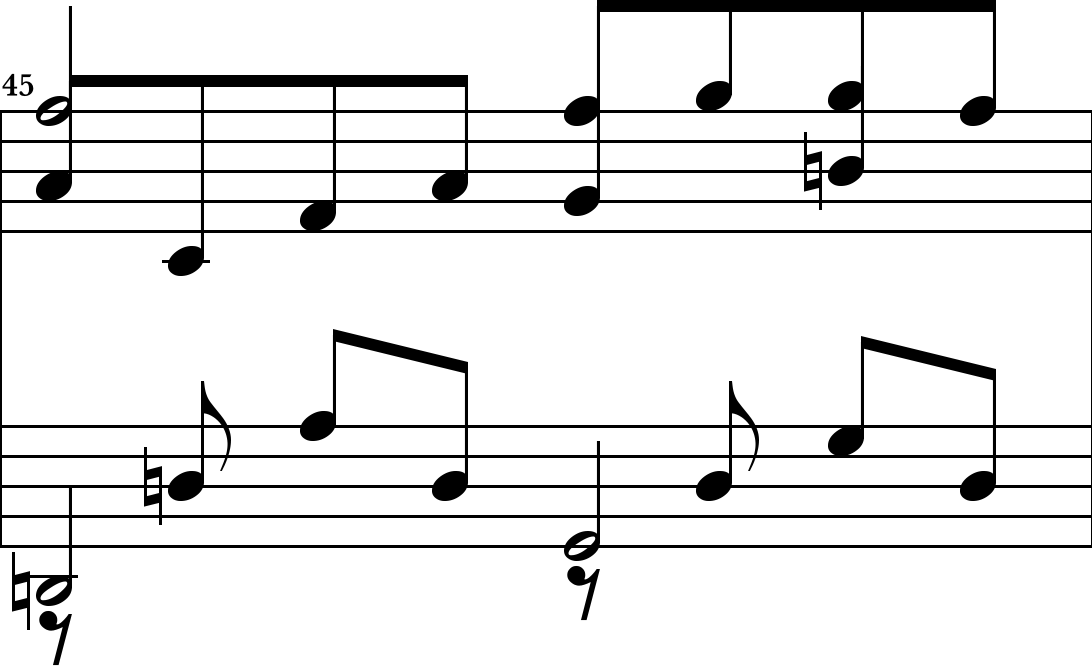
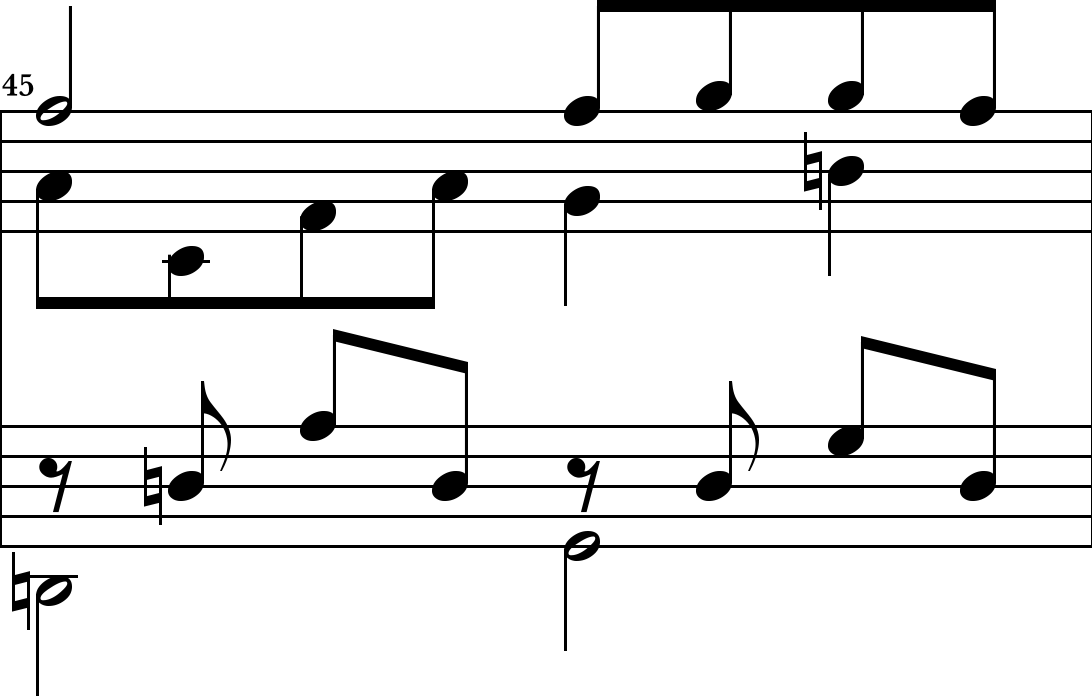
Update mxml to fix stem directions
Also update test images

diff --git a/MusicKitAppTests/VMKChordLayerTests.mm b/MusicKitAppTests/VMKChordLayerTests.mm
@@ -8,6 +8,7 @@
 #include <mxml/ScoreProperties.h>
 #include <mxml/geometry/PartGeometry.h>
 #include <mxml/geometry/ScrollScoreGeometry.h>
+#include <mxml/geometry/factories/ChordGeometryFactory.h>
 #include <mxml/Metrics.h>
 
 
@@ -37,8 +38,9 @@ using namespace mxml::dom;
     ScoreProperties properties(*score, ScoreProperties::kLayoutTypeScroll);
     ScrollMetrics metrics(*score, properties, 0);
 
-    mxml::ChordGeometry geom(*chord, properties, metrics);
-    VMKChordLayer* layer = [[VMKChordLayer alloc] initWithChordGeometry:&geom];
+    mxml::ChordGeometryFactory factory(properties, metrics);
+    auto geom = factory.build(*chord);
+    VMKChordLayer* layer = [[VMKChordLayer alloc] initWithChordGeometry:geom.get()];
     
     CGSize size = layer.preferredFrameSize;
     XCTAssertTrue(size.width > 0, @"Width should be greater than zero");
@@ -65,8 +67,9 @@ using namespace mxml::dom;
     ScoreProperties properties(*score, mxml::ScoreProperties::kLayoutTypeScroll);
     ScrollMetrics metrics(*score, properties, 0);
 
-    mxml::ChordGeometry geom(*chord, properties, metrics);
-    VMKChordLayer* layer = [[VMKChordLayer alloc] initWithChordGeometry:&geom];
+    mxml::ChordGeometryFactory factory(properties, metrics);
+    auto geom = factory.build(*chord);
+    VMKChordLayer* layer = [[VMKChordLayer alloc] initWithChordGeometry:geom.get()];
     
     CGSize size = layer.preferredFrameSize;
     XCTAssertTrue(size.width > 0, @"Width should be greater than zero");
@@ -92,8 +95,9 @@ using namespace mxml::dom;
     ScoreProperties properties(*score, mxml::ScoreProperties::kLayoutTypeScroll);
     ScrollMetrics metrics(*score, properties, 0);
 
-    mxml::ChordGeometry geom(*chord, properties, metrics);
-    VMKChordLayer* layer = [[VMKChordLayer alloc] initWithChordGeometry:&geom];
+    mxml::ChordGeometryFactory factory(properties, metrics);
+    auto geom = factory.build(*chord);
+    VMKChordLayer* layer = [[VMKChordLayer alloc] initWithChordGeometry:geom.get()];
 
     CGSize size = layer.preferredFrameSize;
     XCTAssertTrue(size.width > 0, @"Width should be greater than zero");
@@ -113,8 +117,9 @@ using namespace mxml::dom;
     ScoreProperties properties(*score, mxml::ScoreProperties::kLayoutTypeScroll);
     ScrollMetrics metrics(*score, properties, 0);
 
-    mxml::ChordGeometry geom(*chord, properties, metrics);
-    VMKChordLayer* layer = [[VMKChordLayer alloc] initWithChordGeometry:&geom];
+    mxml::ChordGeometryFactory factory(properties, metrics);
+    auto geom = factory.build(*chord);
+    VMKChordLayer* layer = [[VMKChordLayer alloc] initWithChordGeometry:geom.get()];
 
     CGSize size = layer.preferredFrameSize;
     XCTAssertTrue(size.width > 0, @"Width should be greater than zero");
@@ -134,8 +139,9 @@ using namespace mxml::dom;
     ScoreProperties properties(*score, mxml::ScoreProperties::kLayoutTypeScroll);
     ScrollMetrics metrics(*score, properties, 0);
 
-    mxml::ChordGeometry geom(*chord, properties, metrics);
-    VMKChordLayer* layer = [[VMKChordLayer alloc] initWithChordGeometry:&geom];
+    mxml::ChordGeometryFactory factory(properties, metrics);
+    auto geom = factory.build(*chord);
+    VMKChordLayer* layer = [[VMKChordLayer alloc] initWithChordGeometry:geom.get()];
     
     CGSize size = layer.preferredFrameSize;
     XCTAssertTrue(size.width > 0, @"Width should be greater than zero");
@@ -159,8 +165,9 @@ using namespace mxml::dom;
     ScoreProperties properties(*score, mxml::ScoreProperties::kLayoutTypeScroll);
     ScrollMetrics metrics(*score, properties, 0);
 
-    mxml::ChordGeometry geom(*chord, properties, metrics);
-    VMKChordLayer* layer = [[VMKChordLayer alloc] initWithChordGeometry:&geom];
+    mxml::ChordGeometryFactory factory(properties, metrics);
+    auto geom = factory.build(*chord);
+    VMKChordLayer* layer = [[VMKChordLayer alloc] initWithChordGeometry:geom.get()];
     
     CGSize size = layer.preferredFrameSize;
     XCTAssertTrue(size.width > 0, @"Width should be greater than zero");
@@ -183,8 +190,9 @@ using namespace mxml::dom;
     ScoreProperties properties(*score, mxml::ScoreProperties::kLayoutTypeScroll);
     ScrollMetrics metrics(*score, properties, 0);
 
-    mxml::ChordGeometry geom(*chord, properties, metrics);
-    VMKChordLayer* layer = [[VMKChordLayer alloc] initWithChordGeometry:&geom];
+    mxml::ChordGeometryFactory factory(properties, metrics);
+    auto geom = factory.build(*chord);
+    VMKChordLayer* layer = [[VMKChordLayer alloc] initWithChordGeometry:geom.get()];
 
     [self calculateRenderingErrors:layer forSelector:_cmd testBlock:^(VMKRenderingErrors errors) {
         XCTAssertLessThanOrEqual(errors.maximumError, kMaximumError);
@@ -203,8 +211,9 @@ using namespace mxml::dom;
     ScoreProperties properties(*score, mxml::ScoreProperties::kLayoutTypeScroll);
     ScrollMetrics metrics(*score, properties, 0);
 
-    mxml::ChordGeometry geom(*chord, properties, metrics);
-    VMKChordLayer* layer = [[VMKChordLayer alloc] initWithChordGeometry:&geom];
+    mxml::ChordGeometryFactory factory(properties, metrics);
+    auto geom = factory.build(*chord);
+    VMKChordLayer* layer = [[VMKChordLayer alloc] initWithChordGeometry:geom.get()];
 
     [self calculateRenderingErrors:layer forSelector:_cmd testBlock:^(VMKRenderingErrors errors) {
         XCTAssertLessThanOrEqual(errors.maximumError, kMaximumError);
@@ -226,8 +235,9 @@ using namespace mxml::dom;
     ScoreProperties properties(*score, mxml::ScoreProperties::kLayoutTypeScroll);
     ScrollMetrics metrics(*score, properties, 0);
 
-    mxml::ChordGeometry geom(*chord, properties, metrics);
-    VMKChordLayer* layer = [[VMKChordLayer alloc] initWithChordGeometry:&geom];
+    mxml::ChordGeometryFactory factory(properties, metrics);
+    auto geom = factory.build(*chord);
+    VMKChordLayer* layer = [[VMKChordLayer alloc] initWithChordGeometry:geom.get()];
 
     [self calculateRenderingErrors:layer forSelector:_cmd testBlock:^(VMKRenderingErrors errors) {
         XCTAssertLessThanOrEqual(errors.maximumError, kMaximumError);

diff --git a/MusicKitAppTests/VMKMeasureLayerTests.mm b/MusicKitAppTests/VMKMeasureLayerTests.mm
@@ -108,6 +108,29 @@ using namespace mxml::dom;
     }];
 }
 
+- (void)testStemDirections {
+    auto builder = self.builder;
+
+    auto attributes = self.attributes;
+    attributes->setStaves(presentOptional(1));
+
+    auto noteDown = builder->addNote(self.measure, mxml::dom::Note::TYPE_QUARTER, 0, 1);
+    builder->setPitch(noteDown, mxml::dom::Pitch::STEP_E, 5);
+
+    auto noteUp = builder->addNote(self.measure, mxml::dom::Note::TYPE_QUARTER, 1, 1);
+    builder->setPitch(noteUp, mxml::dom::Pitch::STEP_F, 4);
+
+    auto score = builder->build();
+    auto scoreGeometry = std::unique_ptr<mxml::ScrollScoreGeometry>(new mxml::ScrollScoreGeometry(*score, false));
+    auto partGeometry = scoreGeometry->partGeometries().front();
+    auto measureGeometry = partGeometry->measureGeometries().front();
+    VMKMeasureLayer* layer = [[VMKMeasureLayer alloc] initWithMeasure:measureGeometry];
+
+    [self calculateRenderingErrors:layer forSelector:_cmd testBlock:^(VMKRenderingErrors errors) {
+        XCTAssertLessThanOrEqual(errors.maximumError, kMaximumError);
+    }];
+}
+
 @end
 
 

diff --git a/MusicKit/Layers/VMKBeamLayer.mm b/MusicKit/Layers/VMKBeamLayer.mm
@@ -50,7 +50,7 @@ using mxml::dom::Beam;
     CGContextSetFillColorWithColor(ctx, self.foregroundColor.CGColor);
 
     const BeamGeometry* beamGeom = self.beamGeometry;
-    CGFloat slope = (beamGeom->beamEnd().y - beamGeom->beamBegin().y) / (beamGeom->beamEnd().x - beamGeom->beamBegin().x);
+    CGFloat slope = beamGeom->slope();
 
     for (NSUInteger ci = 0; ci < beamGeom->chords().size() - 1; ci += 1) {
         const ChordGeometry* chord1 = beamGeom->chords().at(ci);
@@ -62,7 +62,7 @@ using mxml::dom::Beam;
         for (int bi = 0; bi < nbeams; bi += 1) {
             if (bi < chord1->chord().beams().size()) {
                 const auto& beam = chord1->chord().beams()[bi];
-                if (beam->type() == Beam::kTypeBegin || beam->type() == Beam::kContinue) {
+                if (beam->type() == Beam::kTypeBegin || beam->type() == Beam::kTypeContinue) {
                     [self drawBeamFrom:bb to:be inContext:ctx];
                 } else if (beam->type() == Beam::kTypeForwardHook) {
                     be.x = bb.x + BeamGeometry::kHookLength;

diff --git a/MusicKitAppTests/VMKBeamLayerTests.mm b/MusicKitAppTests/VMKBeamLayerTests.mm
@@ -77,7 +77,7 @@ using namespace mxml::dom;
     auto chord2 = self.builder->addChord(self.measure);
     auto note2 = self.builder->addNote(chord2, Note::TYPE_64TH, 1, 1);
     self.builder->setPitch(note2, Pitch::STEP_B, 4);
-    [self addBeamToNote:note2 beamType:Beam::kContinue numberOfBeams:1];
+    [self addBeamToNote:note2 beamType:Beam::kTypeContinue numberOfBeams:1];
 
     auto chord3 = self.builder->addChord(self.measure);
     auto note3 = self.builder->addNote(chord3, Note::TYPE_64TH, 2, 1);
@@ -184,7 +184,7 @@ using namespace mxml::dom;
     auto chord2 = self.builder->addChord(self.measure);
     auto note2 = self.builder->addNote(chord2, Note::TYPE_64TH, 1, 1);
     self.builder->setPitch(note2, Pitch::STEP_B, 4);
-    [self addBeamToNote:note2 beamType:Beam::kContinue numberOfBeams:4];
+    [self addBeamToNote:note2 beamType:Beam::kTypeContinue numberOfBeams:4];
 
     auto chord3 = self.builder->addChord(self.measure);
     auto note3 = self.builder->addNote(chord3, Note::TYPE_64TH, 2, 1);

diff --git a/MusicKit/Layers/VMKChordLayer.mm b/MusicKit/Layers/VMKChordLayer.mm
@@ -181,7 +181,7 @@ using namespace mxml;
 
     auto stemGeometry = chordGeometry->stem();
     if (!stemGeometry)
-        return;
+        return; 
 
     CGFloat x = chordGeometry->refNoteLocation().x;
     CGFloat miny = chordGeometry->refNoteLocation().y;
